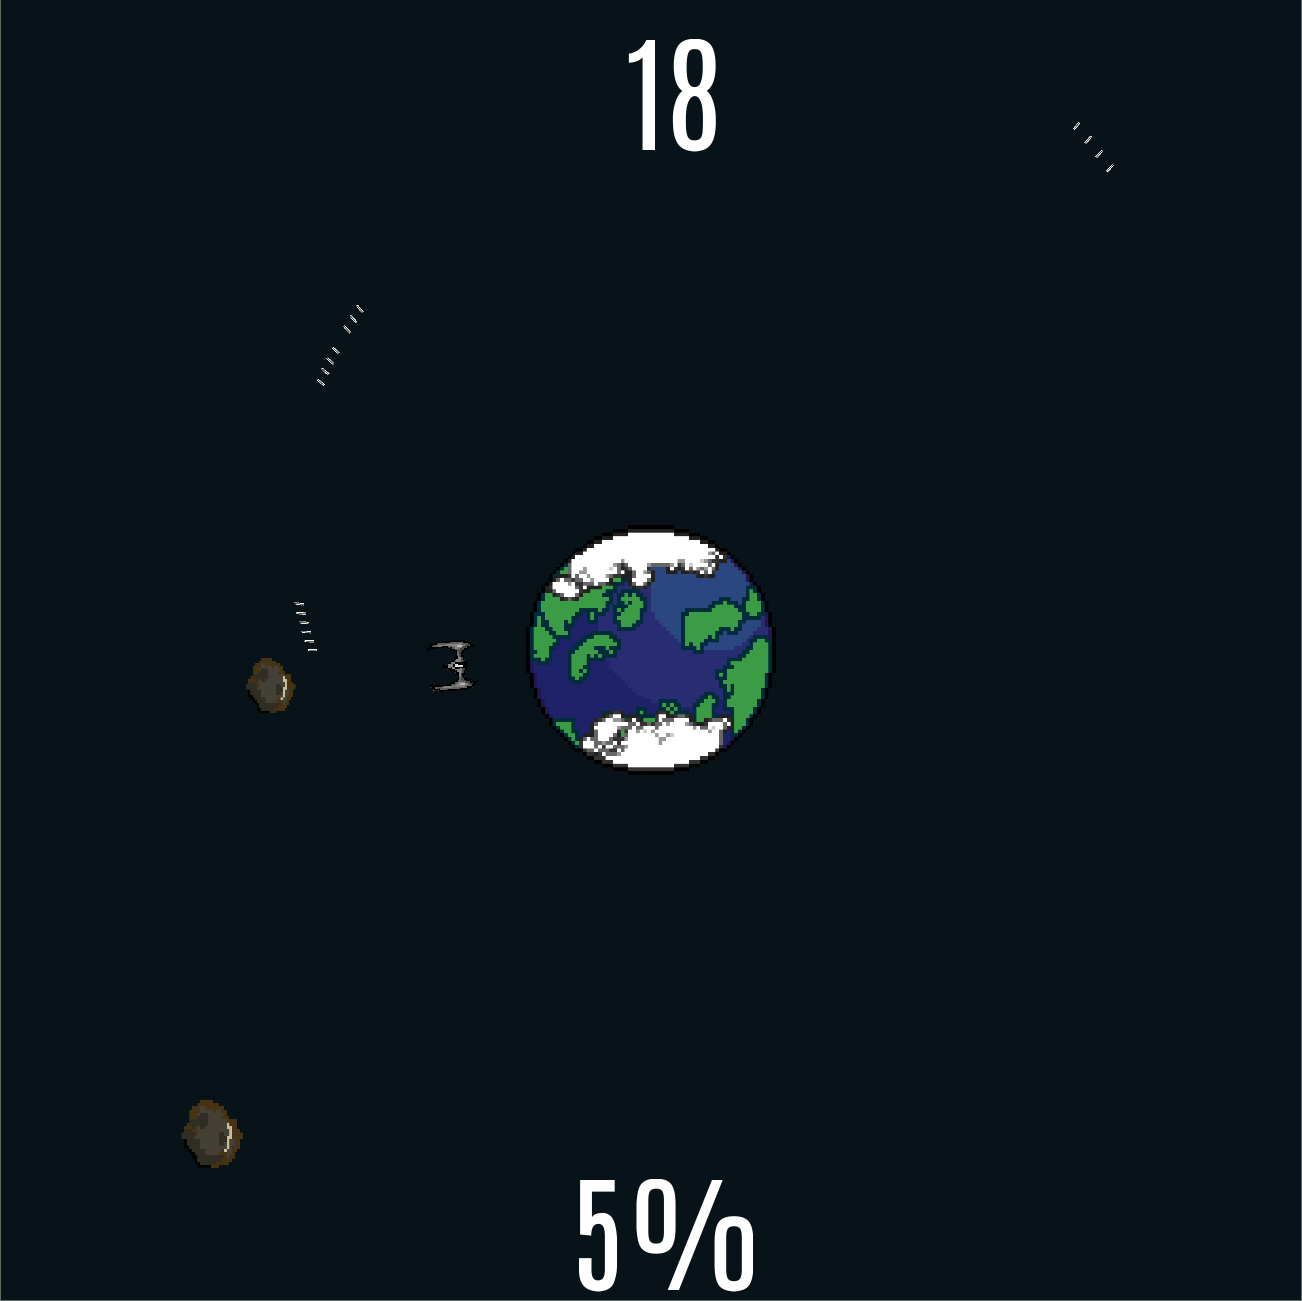
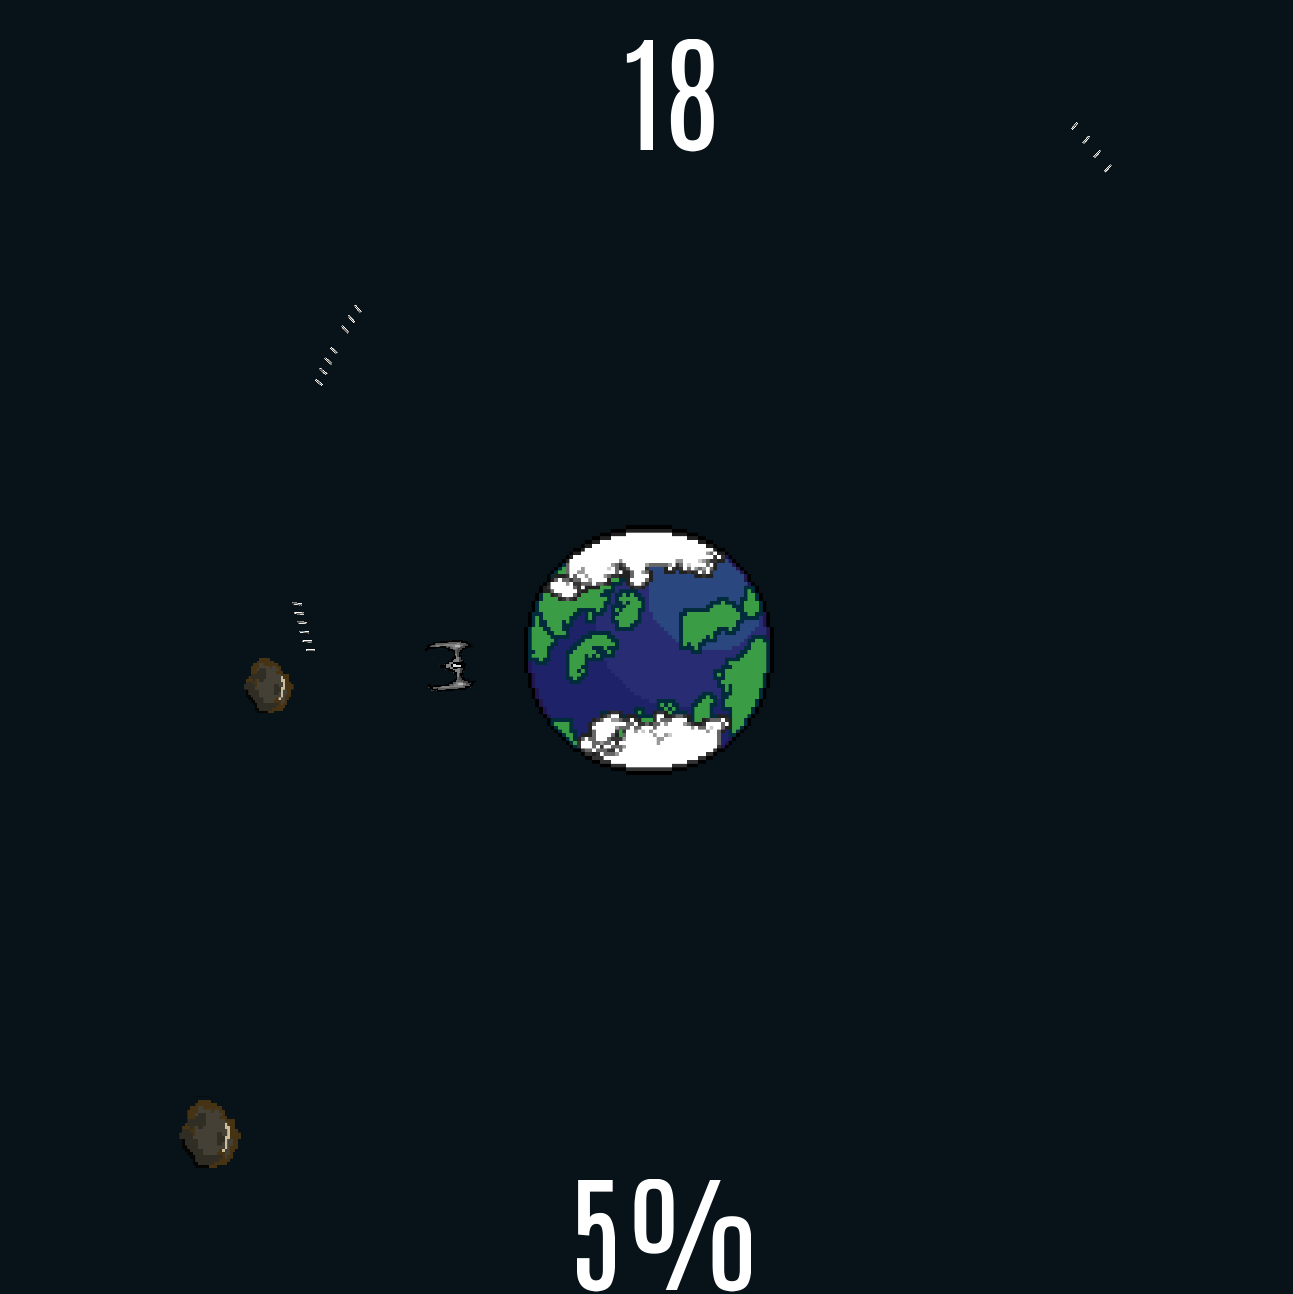
Update README
Update a few links in the README and crop the gameplay screenshot further.

diff --git a/README.md b/README.md
@@ -1,0 +1,193 @@
+<div id="top"></div>
+<!--
+*** Thanks for checking out the Best-README-Template. If you have a suggestion
+*** that would make this better, please fork the repo and create a pull request
+*** or simply open an issue with the tag "enhancement".
+*** Don't forget to give the project a star!
+*** Thanks again! Now go create something AMAZING! :D
+-->
+
+
+
+<!-- PROJECT SHIELDS -->
+<!--
+*** I'm using markdown "reference style" links for readability.
+*** Reference links are enclosed in brackets [ ] instead of parentheses ( ).
+*** See the bottom of this document for the declaration of the reference variables
+*** for contributors-url, forks-url, etc. This is an optional, concise syntax you may use.
+*** https://www.markdownguide.org/basic-syntax/#reference-style-links
+-->
+[![Contributors][contributors-shield]][contributors-url]
+[![Forks][forks-shield]][forks-url]
+[![Stargazers][stars-shield]][stars-url]
+[![Issues][issues-shield]][issues-url]
+[![MIT License][license-shield]][license-url]
+[![LinkedIn][linkedin-shield]][linkedin-url]
+
+
+
+<!-- PROJECT LOGO -->
+<br />
+<div align="center">
+  <a href="https://github.com/othneildrew/Best-README-Template">
+    <img src="doc/images/GamePlay1.PNG" alt="Logo" width="80" height="80">
+  </a>
+
+  <h3 align="center">Last Line</h3>
+
+  <p align="center">
+    2D OpenGL based game where you are Earth's last line of defense!
+    <br />
+    <a href="https://github.com/BryGo1995/last-line"><strong>Explore the docs »</strong></a>
+    <br />
+    <br />
+    <a href="https://github.com/BryGo1995/last-line">View Demo</a>
+    ·
+    <a href="https://github.com/BryGo1995/last-line/issues">Report Bug</a>
+    ·
+    <a href="https://github.com/BryGo1995/last-line/issues">Request Feature</a>
+  </p>
+</div>
+
+
+
+<!-- TABLE OF CONTENTS -->
+<details>
+  <summary>Table of Contents</summary>
+  <ol>
+    <li>
+      <a href="#about-the-project">About The Project</a>
+      <ul>
+        <li><a href="#built-with">Built With</a></li>
+      </ul>
+    </li>
+    <li>
+      <a href="#getting-started">Getting Started</a>
+      <ul>
+        <li><a href="#prerequisites">Prerequisites</a></li>
+        <li><a href="#installation">Installation</a></li>
+      </ul>
+    </li>
+    <li><a href="#usage">Usage</a></li>
+    <li><a href="#roadmap">Roadmap</a></li>
+    <li><a href="#contributing">Contributing</a></li>
+    <li><a href="#license">License</a></li>
+    <li><a href="#contact">Contact</a></li>
+    <li><a href="#acknowledgments">Acknowledgments</a></li>
+  </ol>
+</details>
+
+
+
+<!-- ABOUT THE PROJECT -->
+## About The Project
+
+[![Product Name Screen Shot][gameplay-screenshot]]()
+
+2D OpenGL game where you are Earth's last line of defense. Protect our planet from a barrage of asteroids hurdling across space in the direct path of Earth.
+
+<p align="right">(<a href="#top">back to top</a>)</p>
+
+
+
+### Built With
+
+* [OpenGL](https://www.opengl.org/)
+* [glm](https://github.com/g-truc/glm)
+* [FreeType](https://freetype.org/)
+* [GLAD](https://glad.dav1d.de/)
+
+<p align="right">(<a href="#top">back to top</a>)</p>
+
+
+
+<!-- GETTING STARTED -->
+## Getting Started
+
+### Prerequisites
+
+
+### Installation
+
+<p align="right">(<a href="#top">back to top</a>)</p>
+
+
+
+<!-- ROADMAP -->
+## Roadmap
+
+- [x] Add Base Game functionality
+- [ ] Create nice looking pixel sprites for game objects
+- [ ] Add different ship/gun mechanics
+- [ ] Add additional enemies/objects
+    - [ ] Other ships
+    - [ ] Debris
+
+See the [open issues](https://github.com/BryGo1995/last-line/issues) for a full list of proposed features (and known issues).
+
+<p align="right">(<a href="#top">back to top</a>)</p>
+
+
+
+<!-- CONTRIBUTING -->
+## Contributing
+
+Contributions are what make the open source community such an amazing place to learn, inspire, and create. Any contributions you make are **greatly appreciated**.
+
+If you have a suggestion that would make this better, please fork the repo and create a pull request. You can also simply open an issue with the tag "enhancement".
+Don't forget to give the project a star! Thanks again!
+
+1. Fork the Project
+2. Create your Feature Branch (`git checkout -b feature/AmazingFeature`)
+3. Commit your Changes (`git commit -m 'Add some AmazingFeature'`)
+4. Push to the Branch (`git push origin feature/AmazingFeature`)
+5. Open a Pull Request
+
+<p align="right">(<a href="#top">back to top</a>)</p>
+
+
+
+<!-- LICENSE -->
+## License
+
+Distributed under the MIT License. See `LICENSE.txt` for more information.
+
+<p align="right">(<a href="#top">back to top</a>)</p>
+
+
+
+<!-- CONTACT -->
+## Contact
+
+Bryan Gonzales  - bryanj.gonzales95@gmail.com
+
+Project Link: [https://github.com/BryGo1995/last-line](https://github.com/BryGo1995/last-line)
+
+<p align="right">(<a href="#top">back to top</a>)</p>
+
+
+
+<!-- ACKNOWLEDGMENTS -->
+## Acknowledgments
+
+* [LearnOpenGL](https://learnopengl.com/)
+
+<p align="right">(<a href="#top">back to top</a>)</p>
+
+
+
+<!-- MARKDOWN LINKS & IMAGES -->
+<!-- https://www.markdownguide.org/basic-syntax/#reference-style-links -->
+[contributors-shield]: https://img.shields.io/github/contributors/BryGo1995/last-line.svg?style=for-the-badge
+[contributors-url]: https://github.com/BryGo1995/last-line/graphs/contributors
+[forks-shield]: https://img.shields.io/github/forks/BryGo1995/last-line.svg?style=for-the-badge
+[forks-url]: https://github.com/BryGo1995/last-line/network/members
+[stars-shield]: https://img.shields.io/github/stars/BryGo1995/last-line.svg?style=for-the-badge
+[stars-url]: https://github.com/BryGo1995/last-line/stargazers
+[issues-shield]: https://img.shields.io/github/issues/BryGo1995/last-line.svg?style=for-the-badge
+[issues-url]: https://github.com/BryGo1995/last-line/issues
+[license-shield]: https://img.shields.io/github/license/BryGo1995/last-line.svg?style=for-the-badge
+[license-url]: https://github.com/BryGo1995/last-line/blob/master/LICENSE.txt
+[linkedin-shield]: https://img.shields.io/badge/-LinkedIn-black.svg?style=for-the-badge&logo=linkedin&colorB=555
+[linkedin-url]: https://www.linkedin.com/in/bryan-gonzales-2b3408134/
+[gameplay-screenshot]: doc/images/GamePlay1.PNG
